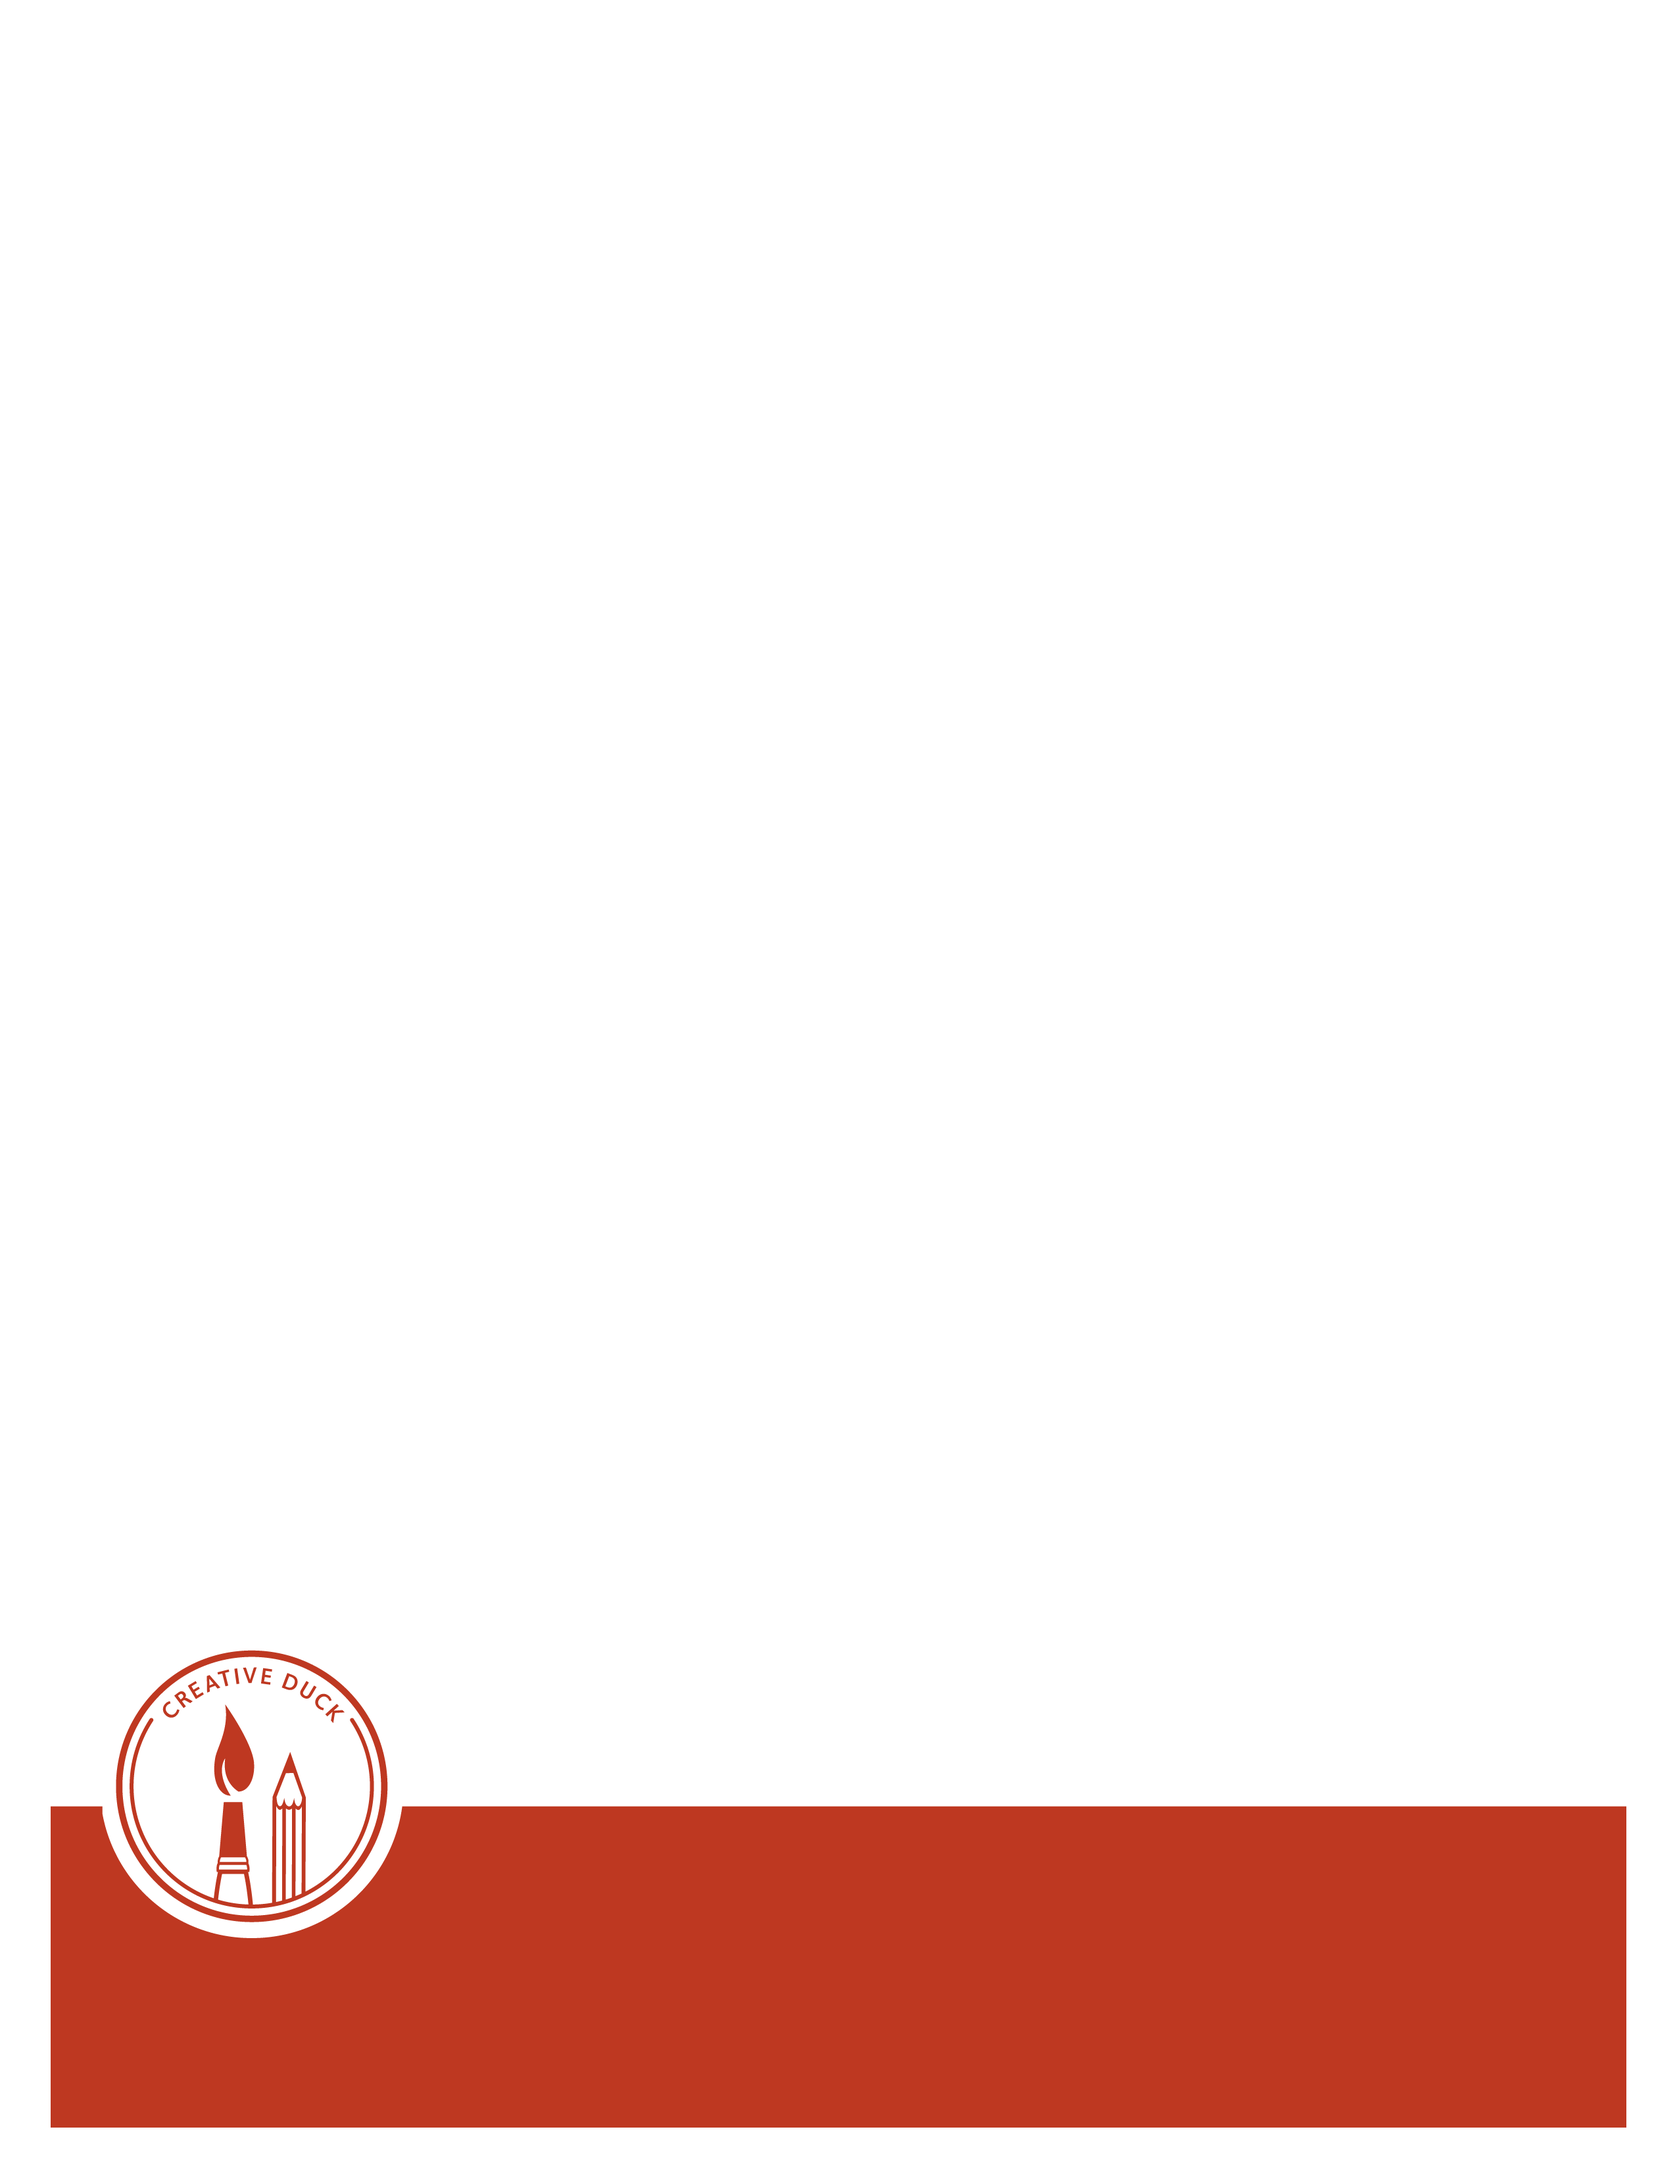
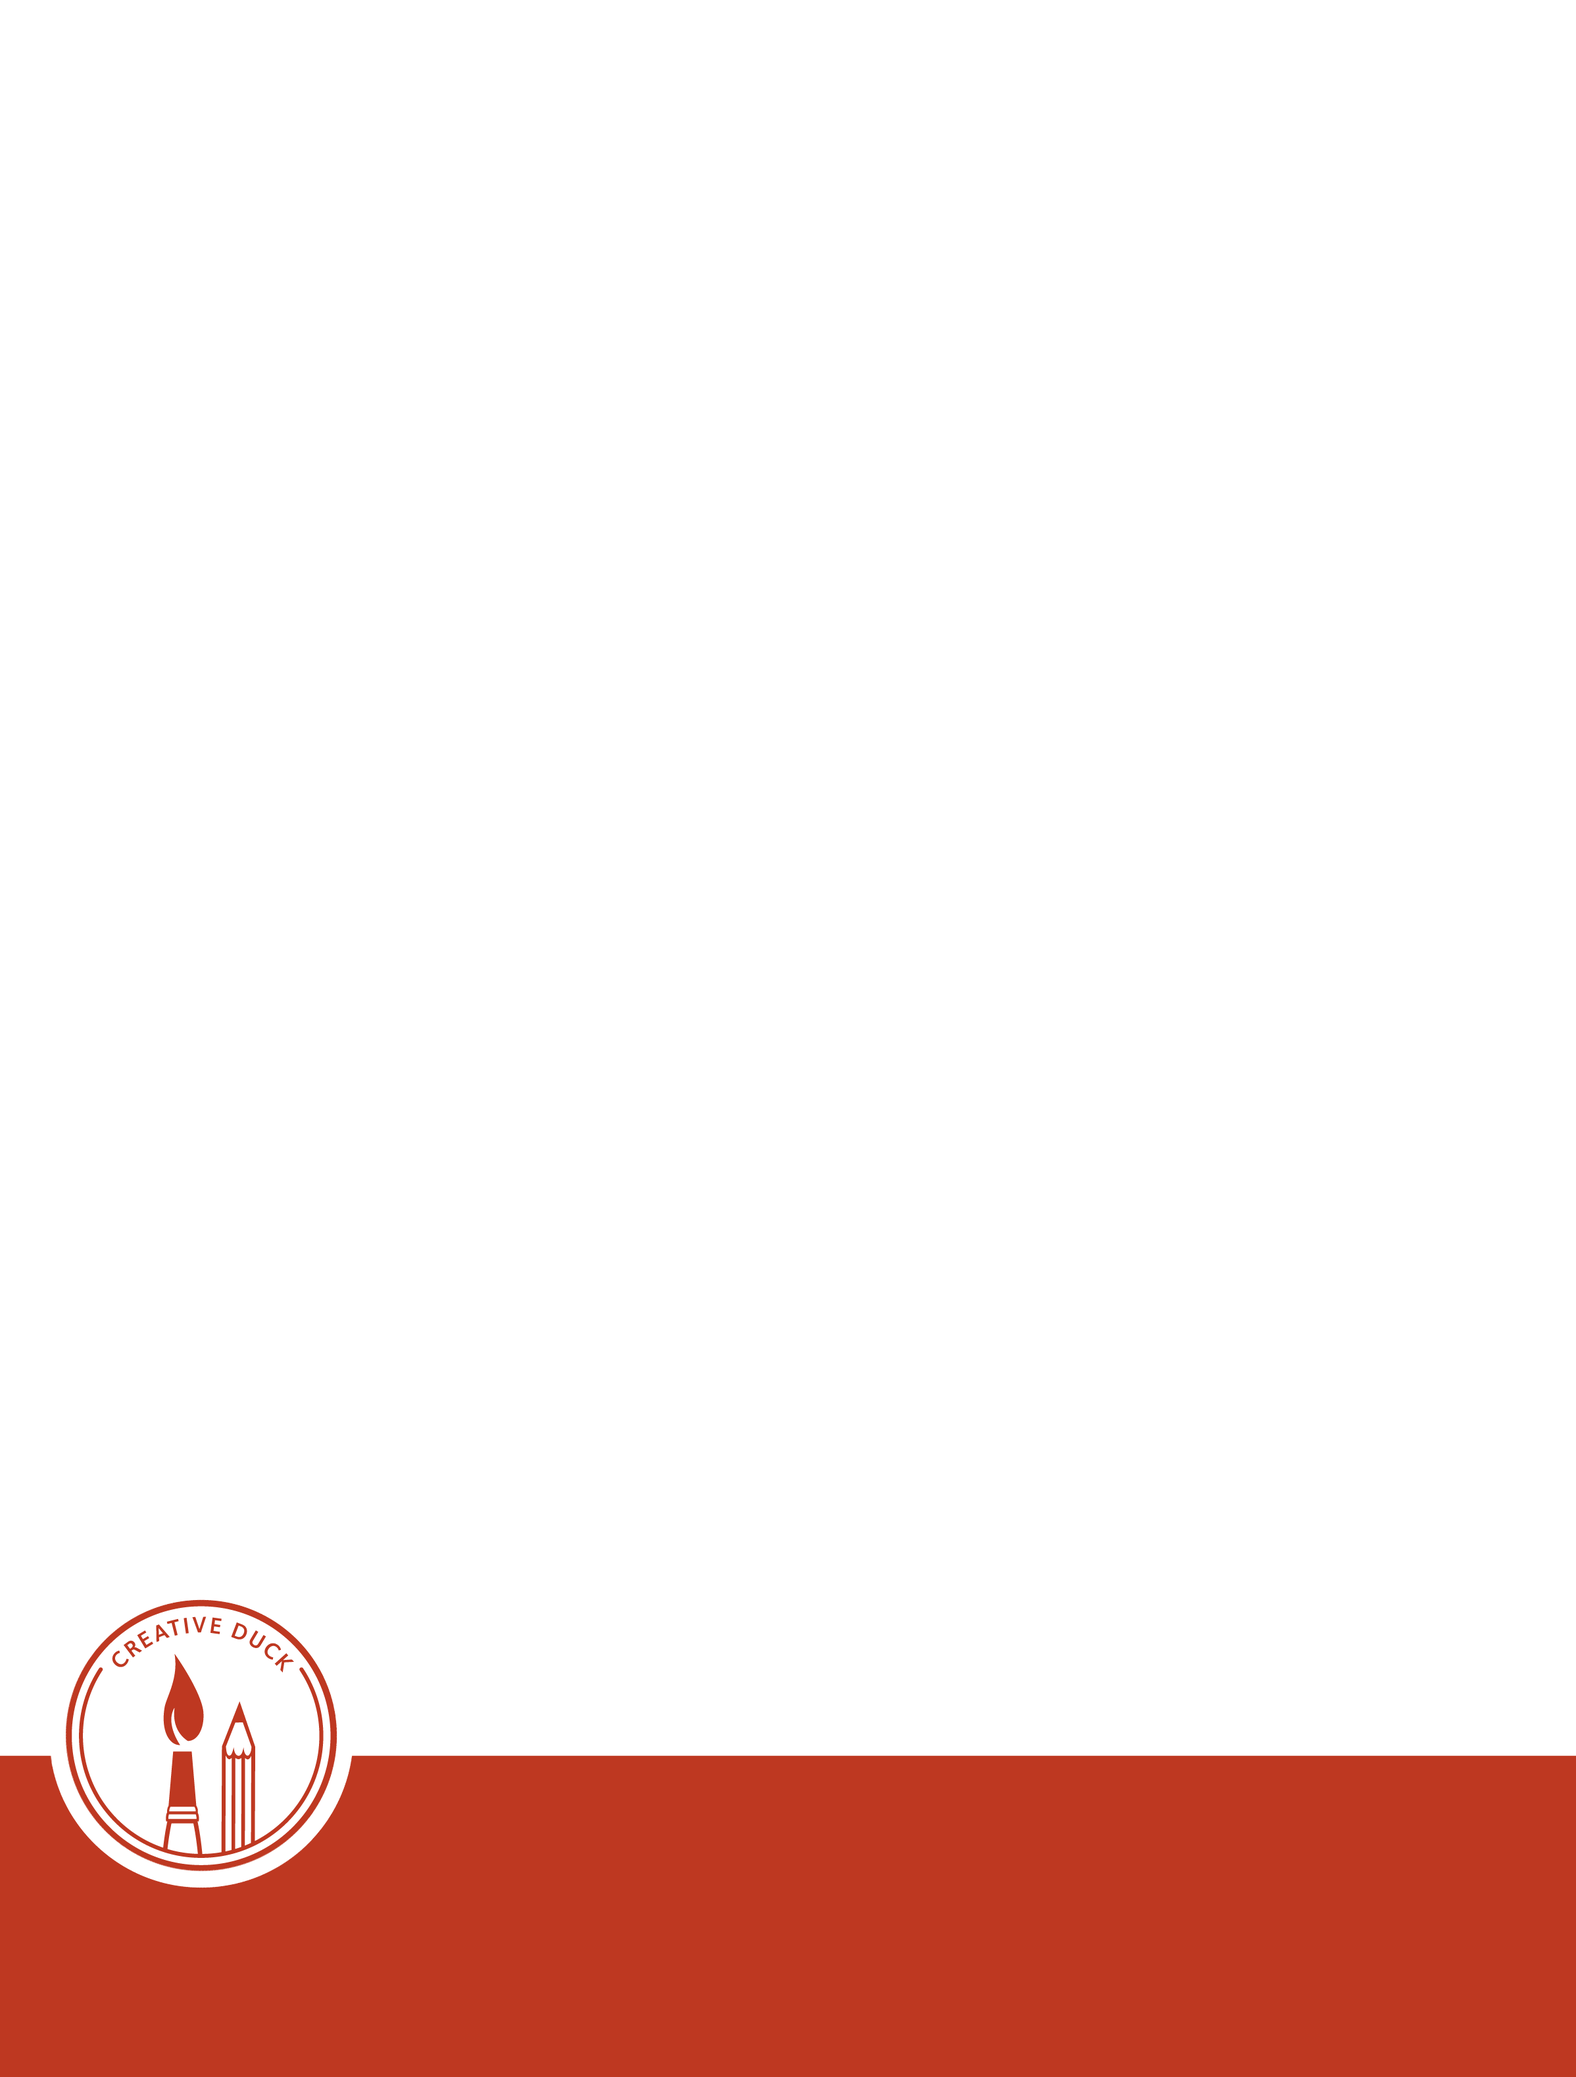
dialing in print margins

Changed region(s): [[0.0, 0.745, 1.0, 1.0]]

diff --git a/css/templates.css b/css/templates.css
@@ -2,55 +2,63 @@
 
 /* 8511a */
 #thumbnail.template-8511a {
-    top: -374px;
-    left: -264px;
+    top: -356px;
+    left: -246px;
 }
 
 .template-8511a {
-    width: 850px;
-    height: 1100px;
-    width: 8.5in;
-    height: 11in;
+    width: 740px;
+    height: 990px;
+    width: 7.2in;
+    height: 9.49in;
     overflow: hidden;
+}
+
+/* emulate printer margin (approx .5 inches) */
+#thumbnail.template-8511a,
+#review.template-8511a {
+    background-color:white;
+    padding: 55px 40px;
 }
 
 .template-8511a .heading {
     font-weight: bold;
-    font-size: 159px;
-    line-height: 151px;
-    top: 48px;
+    font-size: 144px;
+    line-height: 137px;
+    top: 22px;
     letter-spacing: -4px;
-    left: 26px;
-    width: 763px;
+    left: 0px;
+    width: 690px;
 }
 .template-8511a .description {
-    font-size: 54px;
+    font-size: 46px;
     font-style: italic;
     font-weight: bold;
-    letter-spacing: -3px;
+    letter-spacing: -2px;
     line-height: 70px;
-    top: 361px;
-    left: 25px;
-    width: 765px;
+    top: 301px;
+    left: 0px;
+    width: 690px;
 }
 .template-8511a .price {
-    font-size: 190px;
+    font-size: 173px;
     font-weight: bold;
-    letter-spacing: 2px;
-    line-height: 60px;
-    top: 530px;
-    left: 20px;
+    letter-spacing: -1px;
+    line-height: 61px;
+    top: 451px;
+    left: 0px;
+    width: 690px;
 }
 .template-8511a .price .dollar-sign { vertical-align: top }
 .template-8511a .price .dollar-amt {
-    font-size: 340px;
-    line-height: 193px;
+    font-size: 294px;
+    line-height: 179px;
 }
 .template-8511a .price .decimal { display: none }
 .template-8511a .price .cents-amt { vertical-align: top }
 .template-8511a .disclaimer {
-    top: 850px;
-    left: 232px;
+    top: 744px;
+    left: 189px;
     font-style: italic;
     color: black;
 }
@@ -58,38 +66,40 @@
 
 /* 8511b */
 #thumbnail.template-8511b {
-    top: -276px;
-    left: -407px;
+    top: -256px;
+    left: -367px;
 }
 .template-8511b {
     color:white;
-    width: 1100px;
-    height: 850px;
+    width: 980px;
+    height: 739px;
+    width: 9.8in;
+    height: 7.39in;
     overflow: hidden;
 }
-@media print {
-    .template-8511b {
-        width: 11in;
-        height: 8.5in;
-    }   
+/* emulate printer margin (approx .5 inches) */
+#thumbnail.template-8511b,
+#review.template-8511b {
+    background-color:white;
+    padding: 55px 40px;
 }
 .template-8511b .heading {
     font-weight: bold;
-    font-size: 165px;
-    line-height: 157px;
-    top: 79px;
+    font-size: 152px;
+    line-height: 141px;
+    top: 45px;
     letter-spacing: -4px;
-    left: 60px;
-    width: 980px;
+    left: 22px;
+    width: 893px;
 }
 .template-8511b .description {
-    font-size: 56px;
+    font-size: 50px;
     font-style: italic;
     font-weight: bold;
     letter-spacing: -3px;
     line-height: 60px;
-    top: 457px;
-    left: 27px;
+    top: 384px;
+    left: 23px;
 }
 
 /* 117b */

diff --git a/partials/build.html b/partials/build.html
@@ -2,15 +2,16 @@
     <div ng-switch-when="build">
         
         <div id="header">
-            <h1>Template Sign System</h1>
+            <h1>The Duck Store Template Sign System</h1>
             <ul id="nav">
                 <li><a href="/">Home</a></li>
             </ul>
+            <p>Supported browsers: Google Chrome and Mozilla Firefox.</p>
         </div>
 
         <div id="build">   
             <div id="hud" ng-show="show.hud">
-                <h4>Preview</h4>
+                <h4>Live Preview</h4>
                 <div id="thumbnail" class="template-{{fullTemplate.slug}} theme-{{theme}}" >
                     <div ng-include="previewerhtml"></div>
                 </div><!-- /#thumbnail -->
@@ -34,6 +35,7 @@
                             <img ng-src="{{template.thumbnail}}" class="template-image" />
                             <div class="template-name">{{template.name}}</div>
                             <div class="template-description">{{template.description}}</div>
+                            <div class="template-slug">{{template.slug}}</div>
                         </div>
                     </li>
                 </ul>

diff --git a/css/app.css b/css/app.css
@@ -144,7 +144,8 @@ a.list-item {
 #step-review {
     min-height: 20px;
 }
-@media print { 
+@media print {
+    #content {padding:0;margin:0;}
     .no-print { display: none }
     #print-sign {
         display:block;
